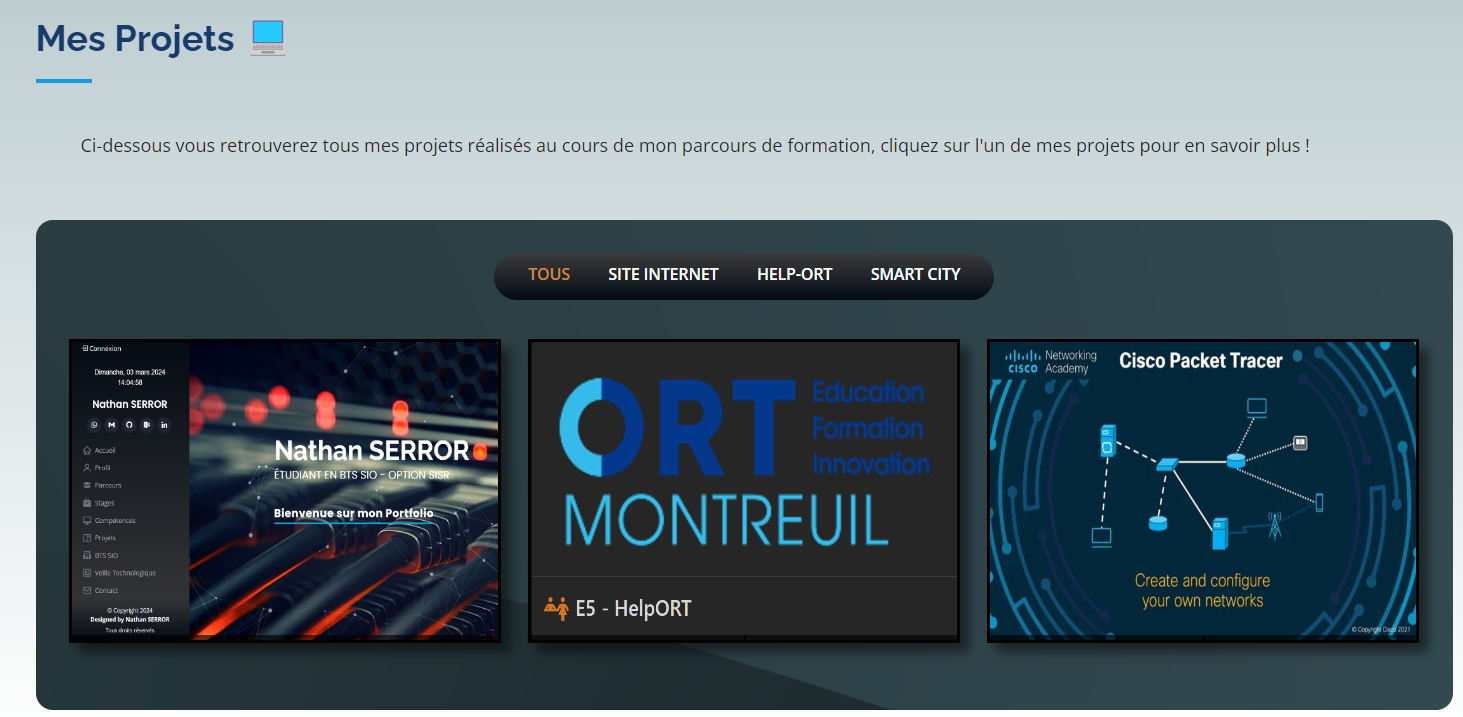
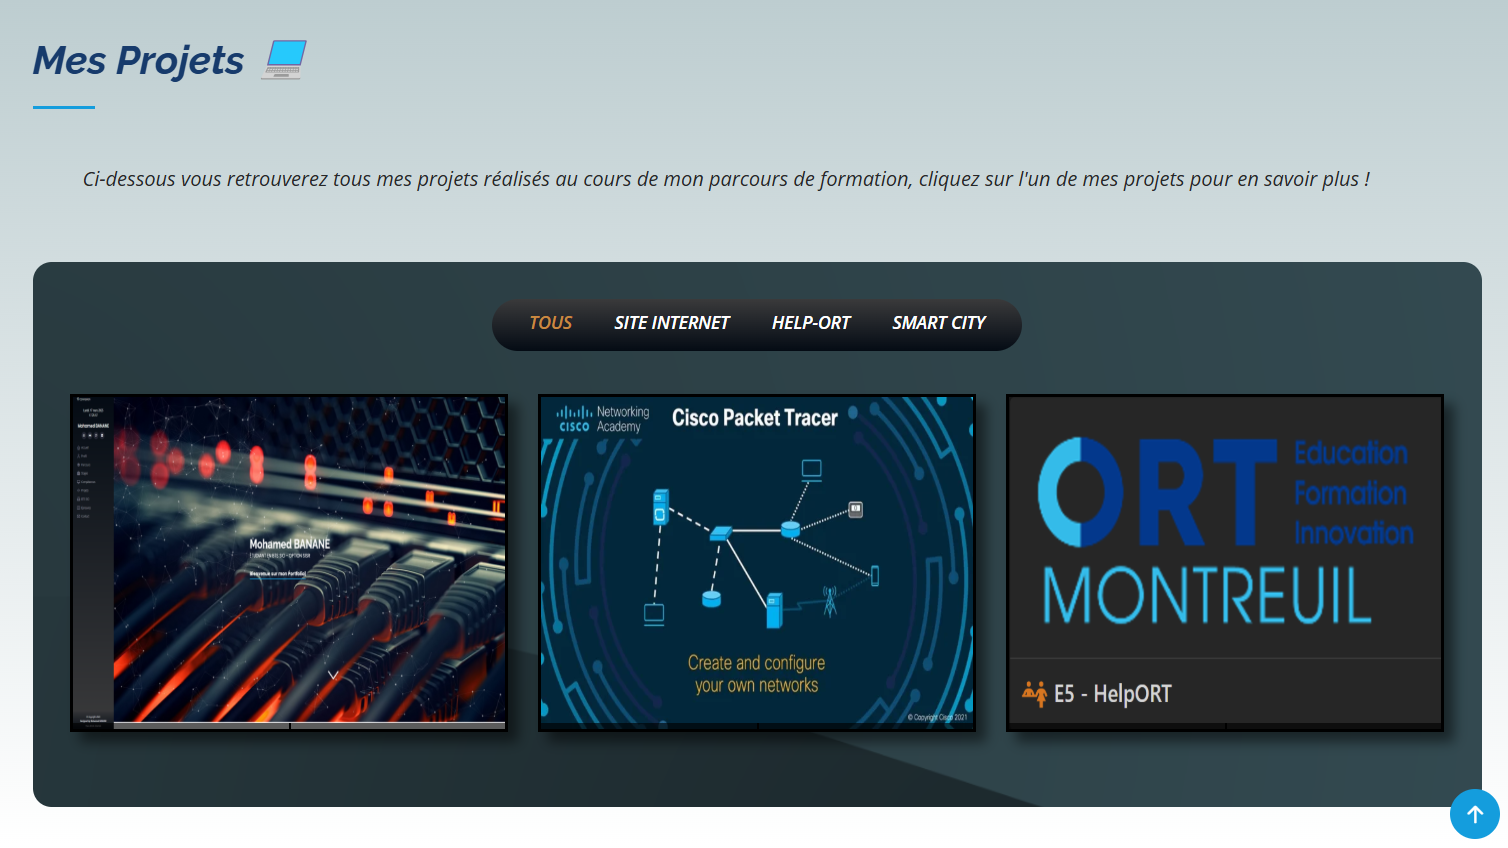
miaou

diff --git a/mohamedbanane.com/projets/projet-portfolio.html b/mohamedbanane.com/projets/projet-portfolio.html
@@ -4,7 +4,7 @@
       xmlns="http://www.w3.org/1999/html">
 
 
-<!-- Mirrored from nathanserror.com/projets/projet-portfolio.html by HTTrack Website Copier/3.x [XR&CO'2014], Tue, 11 Mar 2025 09:11:25 GMT -->
+<!-- Mirrored from mohamedbanane.com/projets/projet-portfolio.html by HTTrack Website Copier/3.x [XR&CO'2014], Tue, 11 Mar 2025 09:11:25 GMT -->
 <!-- Added by HTTrack --><meta http-equiv="content-type" content="text/html;charset=utf-8" /><!-- /Added by HTTrack -->
 <head>
   <meta charset="utf-8">
@@ -70,7 +70,7 @@
         // Fonction de gestionnaire d'événement pour le clic du bouton
         function logout() {
           // Rediriger vers la nouvelle URL
-          window.location.href = 'https://nathanser.github.io/portfolio-admin/';
+          window.location.href = 'https://mohamedser.github.io/portfolio-admin/';
         }
 
         // Ajouter un écouteur d'événements au bouton de déconnexion
@@ -115,11 +115,11 @@
 
       <h1 class="text-light"><a style="color: white;" onmouseover="this.style.color='grey'" onmouseout="this.style.color='white'" href="../index-2.html">Mohamed BANANE</a></h1>
       <div class="social-links mt-3 text-center">
-        <a href="https://wa.me/33767579036" class="whatsapp"><i class="bx bxl-whatsapp"></i></a>
-        <a href="mailto:nathan.serror@gmail.com" class="gmail"><i class="bx bxl-gmail"></i></a>
-        <a href="https://github.com/Nathanser" class="github"><i class="bx bxl-github"></i></a>
-        <a href="mailto:nathan.serror@ortmontreuil.fr" class="teams"><i class="bx bxl-microsoft-teams"></i></a>
-        <a href="https://www.linkedin.com/in/nathan-serror/" class="github"><i class="bx bxl-linkedin"></i></a>
+        <a href="h" class="whatsapp"><i class="bx bxl-whatsapp"></i></a>
+        <a href="mailto:mohamedbanane134@gmail.com" class="gmail"><i class="bx bxl-gmail"></i></a>
+        <a href="https://github.com/TheGreatestBanane" class="github"><i class="bx bxl-github"></i></a>
+        <a href="mailto:mohamed.banane@ortmontreuil.fr" class="teams"><i class="bx bxl-microsoft-teams"></i></a>
+        <a href="https://www.linkedin.com/in/mohamed-banane/" class="github"><i class="bx bxl-linkedin"></i></a>
       </div>
     </div>
 
@@ -228,8 +228,8 @@
               <li><strong>Catégorie </strong>: Site vitrine Portfolio.</li>
               <li><strong>Languages utilisés </strong>: HTML, CSS, JavaScript.</li>
               <li><strong>Outils </strong>: PhpStorm, Github, IONOS</li>
-              <li><strong>Date du projet </strong>: 2023-2024</li>
-              <li><strong>Site internet  </strong>: <i class="bi bi-globe2"></i> <a href="../index.html" target="_blank">https://nathanserror.com</a></li>
+              <li><strong>Date du projet </strong>: 2023-2025</li>
+              <li><strong>Site internet  </strong>: <i class="bi bi-globe2"></i> <a href="../index.html" target="_blank">https://thegreatestbanane.github.io/PortFolioBTS/mohamedbanane.com/index.html</a></li>
             </ul>
           </div>
         </div>
@@ -294,5 +294,5 @@
 </body>
 
 
-<!-- Mirrored from nathanserror.com/projets/projet-portfolio.html by HTTrack Website Copier/3.x [XR&CO'2014], Tue, 11 Mar 2025 09:11:26 GMT -->
+<!-- Mirrored from mohamedbanane.com/projets/projet-portfolio.html by HTTrack Website Copier/3.x [XR&CO'2014], Tue, 11 Mar 2025 09:11:26 GMT -->
 </html>

diff --git a/mohamedbanane.com/projets/projet-smartcity.html b/mohamedbanane.com/projets/projet-smartcity.html
@@ -4,13 +4,13 @@
       xmlns="http://www.w3.org/1999/html">
 
 
-<!-- Mirrored from nathanserror.com/projets/projet-smartcity.html by HTTrack Website Copier/3.x [XR&CO'2014], Tue, 11 Mar 2025 09:11:26 GMT -->
+<!-- Mirrored from mohamedbanane.com/projets/projet-smartcity.html by HTTrack Website Copier/3.x [XR&CO'2014], Tue, 11 Mar 2025 09:11:26 GMT -->
 <!-- Added by HTTrack --><meta http-equiv="content-type" content="text/html;charset=utf-8" /><!-- /Added by HTTrack -->
 <head>
   <meta charset="utf-8">
   <meta content="width=device-width, initial-scale=1.0" name="viewport">
 
-  <title>Portfolio BTS SIO | Nathan SERROR</title>
+  <title>Portfolio BTS SIO | Mohamed BANANE</title>
   <meta content="" name="description">
   <meta content="" name="keywords">
 
@@ -70,7 +70,7 @@
         // Fonction de gestionnaire d'événement pour le clic du bouton
         function logout() {
           // Rediriger vers la nouvelle URL
-          window.location.href = 'https://nathanser.github.io/portfolio-admin/';
+          window.location.href = 'https://mohamedser.github.io/portfolio-admin/';
         }
 
         // Ajouter un écouteur d'événements au bouton de déconnexion
@@ -113,13 +113,13 @@
 
 
 
-      <h1 class="text-light"><a style="color: white;" onmouseover="this.style.color='grey'" onmouseout="this.style.color='white'" href="../index-2.html">Nathan SERROR</a></h1>
+      <h1 class="text-light"><a style="color: white;" onmouseover="this.style.color='grey'" onmouseout="this.style.color='white'" href="../index-2.html">mohamed banane</a></h1>
       <div class="social-links mt-3 text-center">
-        <a href="https://wa.me/33767579036" class="whatsapp"><i class="bx bxl-whatsapp"></i></a>
-        <a href="mailto:nathan.serror@gmail.com" class="gmail"><i class="bx bxl-gmail"></i></a>
-        <a href="https://github.com/Nathanser" class="github"><i class="bx bxl-github"></i></a>
-        <a href="mailto:nathan.serror@ortmontreuil.fr" class="teams"><i class="bx bxl-microsoft-teams"></i></a>
-        <a href="https://www.linkedin.com/in/nathan-serror/" class="github"><i class="bx bxl-linkedin"></i></a>
+        <a href="h" class="whatsapp"><i class="bx bxl-whatsapp"></i></a>
+        <a href="mailto:mohamedbanane134@gmail.com" class="gmail"><i class="bx bxl-gmail"></i></a>
+        <a href="https://github.com/TheGreatestBanane" class="github"><i class="bx bxl-github"></i></a>
+        <a href="mailto:mohamedbanane134@gmail.com" class="teams"><i class="bx bxl-microsoft-teams"></i></a>
+        <a href="https://www.linkedin.com/in/mohamed-banane/" class="github"><i class="bx bxl-linkedin"></i></a>
       </div>
     </div>
 
@@ -333,7 +333,7 @@
 <footer id="footer">
   <div class="container">
     <div class="copyright">
-      &copy; Copyright 2024 <strong><br><span>Designed by Nathan SERROR</span></strong>
+      &copy; Copyright 2024 <strong><br><span>Designed by mohamed banane</span></strong>
     </div>
     <div class="credits">
       Tous droits réservés
@@ -362,5 +362,5 @@
 </body>
 
 
-<!-- Mirrored from nathanserror.com/projets/projet-smartcity.html by HTTrack Website Copier/3.x [XR&CO'2014], Tue, 11 Mar 2025 09:11:26 GMT -->
+<!-- Mirrored from mohamedbanane.com/projets/projet-smartcity.html by HTTrack Website Copier/3.x [XR&CO'2014], Tue, 11 Mar 2025 09:11:26 GMT -->
 </html>

diff --git a/mohamedbanane.com/projets/projet-HelpORT.html b/mohamedbanane.com/projets/projet-HelpORT.html
@@ -4,7 +4,7 @@
       xmlns="http://www.w3.org/1999/html">
 
 
-<!-- Mirrored from nathanserror.com/projets/projet-HelpORT.html by HTTrack Website Copier/3.x [XR&CO'2014], Tue, 11 Mar 2025 09:11:26 GMT -->
+<!-- Mirrored from mohamedbanane.com/projets/projet-HelpORT.html by HTTrack Website Copier/3.x [XR&CO'2014], Tue, 11 Mar 2025 09:11:26 GMT -->
 <!-- Added by HTTrack --><meta http-equiv="content-type" content="text/html;charset=utf-8" /><!-- /Added by HTTrack -->
 <head>
   <meta charset="utf-8">
@@ -70,7 +70,7 @@
         // Fonction de gestionnaire d'événement pour le clic du bouton
         function logout() {
           // Rediriger vers la nouvelle URL
-          window.location.href = 'https://nathanser.github.io/portfolio-admin/';
+          window.location.href = 'https://mohamedser.github.io/portfolio-admin/';
         }
 
         // Ajouter un écouteur d'événements au bouton de déconnexion
@@ -115,11 +115,11 @@
 
       <h1 class="text-light"><a style="color: white;" onmouseover="this.style.color='grey'" onmouseout="this.style.color='white'" href="../index-2.html">Mohamed BANANE</a></h1>
       <div class="social-links mt-3 text-center">
-        <a href="https://wa.me/33767579036" class="whatsapp"><i class="bx bxl-whatsapp"></i></a>
-        <a href="mailto:nathan.serror@gmail.com" class="gmail"><i class="bx bxl-gmail"></i></a>
-        <a href="https://github.com/Nathanser" class="github"><i class="bx bxl-github"></i></a>
-        <a href="mailto:nathan.serror@ortmontreuil.fr" class="teams"><i class="bx bxl-microsoft-teams"></i></a>
-        <a href="https://www.linkedin.com/in/nathan-serror/" class="github"><i class="bx bxl-linkedin"></i></a>
+        <a href="h" class="whatsapp"><i class="bx bxl-whatsapp"></i></a>
+        <a href="mailto:mohamedbanane134@gmail.com" class="gmail"><i class="bx bxl-gmail"></i></a>
+        <a href="https://github.com/TheGreatestBanane" class="github"><i class="bx bxl-github"></i></a>
+        <a href="mailto:mohamedbanane134@gmail.com" class="teams"><i class="bx bxl-microsoft-teams"></i></a>
+        <a href="https://www.linkedin.com/in/mohamed-banane/" class="github"><i class="bx bxl-linkedin"></i></a>
       </div>
     </div>
 
@@ -362,5 +362,5 @@
 </body>
 
 
-<!-- Mirrored from nathanserror.com/projets/projet-HelpORT.html by HTTrack Website Copier/3.x [XR&CO'2014], Tue, 11 Mar 2025 09:11:30 GMT -->
+<!-- Mirrored from mohamedbanane.com/projets/projet-HelpORT.html by HTTrack Website Copier/3.x [XR&CO'2014], Tue, 11 Mar 2025 09:11:30 GMT -->
 </html>

diff --git a/mohamedbanane.com/index-2.html b/mohamedbanane.com/index-2.html
@@ -131,7 +131,7 @@
           <a href="0781000000" class="whatsapp"><i class="bx bxl-whatsapp"></i></a>
           <a href="mailto:mohamedbanane134@gmail.com" class="gmail"><i class="bx bxl-gmail"></i></a>
           <a href="tel:0781000000" class="teams"><i class='bx bx-message-rounded'></i></a>
-          <a href="https://www.linkedin.com/in/Mohamed-BANANE/" class="github"><i class="bx bxl-linkedin-square"></i></a>
+          <a href="https://github.com/TheGreatestBanane" class="github"><i class="bx bxl-linkedin-square"></i></a>
         </div>
       </div>
   

diff --git a/mohamedbanane.com/index.html b/mohamedbanane.com/index.html
@@ -131,7 +131,7 @@
         <a href="0781000000" class="whatsapp"><i class="bx bxl-whatsapp"></i></a>
         <a href="mailto:mohamedbanane134@gmail.com" class="gmail"><i class="bx bxl-gmail"></i></a>
         <a href="tel:0781000000" class="teams"><i class='bx bx-message-rounded'></i></a>
-        <a href="https://www.linkedin.com/in/Mohamed-BANANE/" class="github"><i class="bx bxl-linkedin-square"></i></a>
+        <a href="https://github.com/TheGreatestBanane" class="github"><i class="bx bxl-linkedin-square"></i></a>
       </div>
     </div>
 
